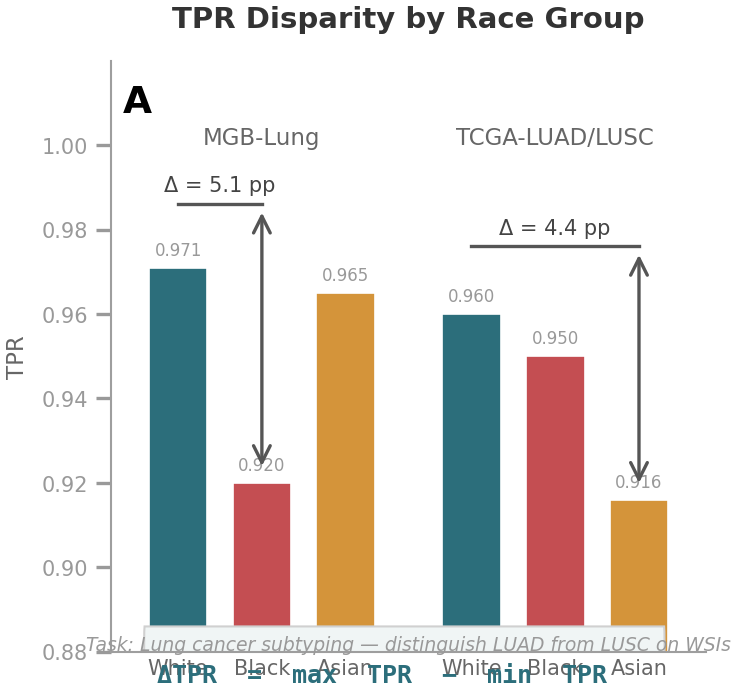
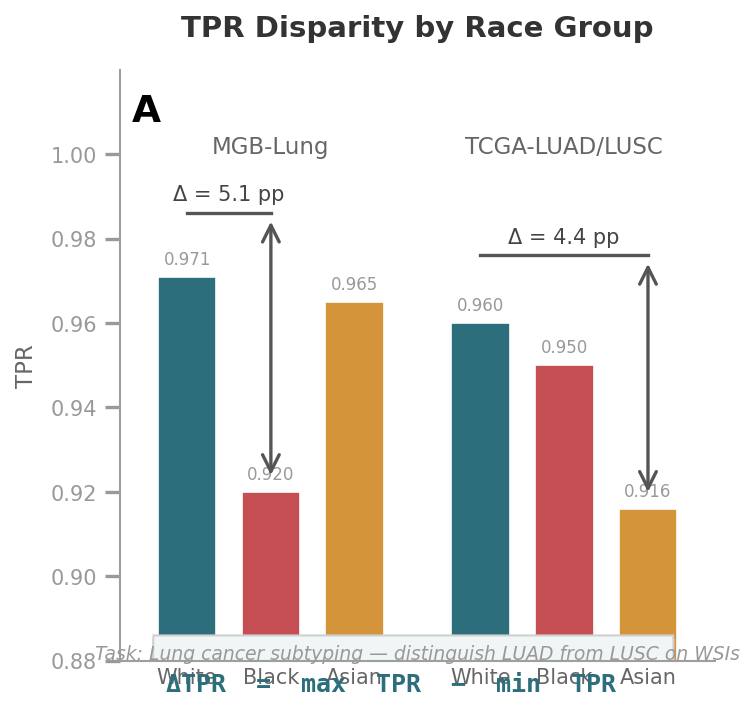
Auto: compile+deploy on file change

diff --git a/figures/idea/1_using_python.py b/figures/idea/1_using_python.py
@@ -96,7 +96,14 @@ ax.text(bx + 0.15, by + bh/2, 'ΔTPR  =  max  TPR  −  min  TPR',
 
 # ── Save ──────────────────────────────────────────
 out = '/mnt/e/fairness-review-paper/literature-review-paper_v8/figures/idea/panel_A.png'
-# Use a fixed bbox to enforce exact 6.5×6.5 cm square
-fig.savefig(out, dpi=300, facecolor='white', edgecolor='none',
-            bbox_inches='tight', pad_inches=0.05)
-print(f'Saved → {out}')
+fig.savefig(out, dpi=300, facecolor='white', edgecolor='none', bbox_inches='tight',
+            pad_inches=0.03)
+# Re-open and force-crop to square
+from PIL import Image
+img = Image.open(out)
+sz = max(img.size)
+square = Image.new('RGB', (sz, sz), 'white')
+square.paste(img, ((sz - img.size[0]) // 2, (sz - img.size[1]) // 2))
+square.save(out, dpi=(300, 300))
+w = sz / 300 * 2.54
+print(f'Saved → {out}  ({sz}x{sz}px, {w:.1f}x{w:.1f} cm)')
